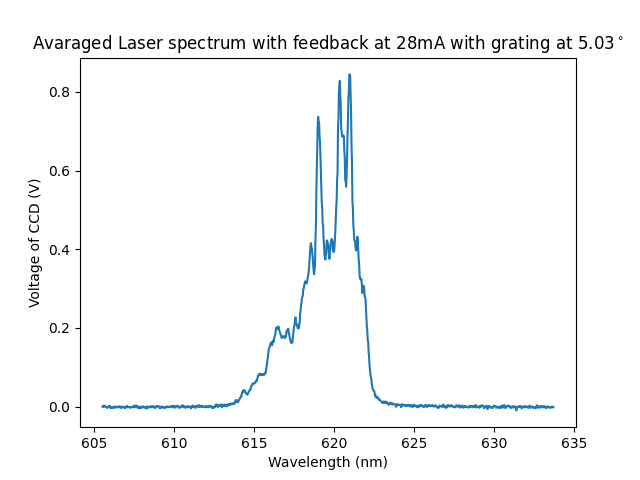
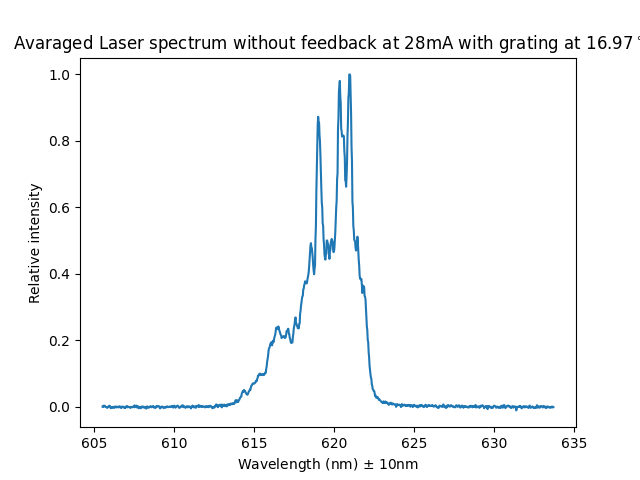
Laser measurement without feedback

diff --git a/Laser measurments/Measurment reader.py b/Laser measurments/Measurment reader.py
@@ -6,10 +6,11 @@ import scipy.signal
 from math import sqrt
 
 # df = pandas.read_csv(".\laser measurments\\no feedback no lasing 25mA 19-06.csv", delimiter=",", header=11)
-df = pandas.read_csv("fb 28mA zoom photo 65 19-06.csv", delimiter=",", header=11)
+df = pandas.read_csv("no fb 28mA 19-06 zoom.csv", delimiter=",", header=11)
+# df =df.drop(range(550000, 1000000))
 # debug = df[df.columns[5]]
 # print("hello")
-print(df.drop([0, 1, 2, 3, 4, 5, 6, 7, 8, 9, 10]))
+# print(df.drop([0, 1, 2, 3, 4, 5, 6, 7, 8, 9, 10]))
 df.plot(df.columns[0], df.columns[1])
 
 #%%
@@ -33,16 +34,20 @@ plt.plot(wavelength, df[df.columns[1]])
 plt.xlabel("Wavelength (nm)")
 plt.ylabel("Voltage of CCD (V)")
 plt.title("Laser spectrum with feedback at 28mA with grating at $5.03^\circ$")
-plt.savefig(".\Results laser spectrum\\feedback 28mA photo 65.png")
+# plt.savefig(".\Results laser spectrum\\feedback 28mA photo 65.png")
 
 
 #%%
 avaraged = []
 avarage_length = 1000
 for i in range(0, len(wavelength), avarage_length):
-    avaraged.append(np.mean(df[df.columns[1]][i:i+avarage_length]))
+    avaraged.append(np.mean(-df[df.columns[1]][i:i+avarage_length]) + df[df.columns[1]][0])
+peak = scipy.signal.find_peaks(avaraged, height=0.8)[0]
+print(peak)
+print(avaraged[peak[1]])
+avaraged = [avaraged[i]/avaraged[peak[1]] for i in range(len(avaraged))]
 plt.plot(wavelength[::avarage_length], avaraged)
-plt.xlabel("Wavelength (nm)")
-plt.ylabel("Voltage of CCD (V)")
-plt.title("Avaraged Laser spectrum with feedback at 28mA with grating at $5.03^\circ$")
-plt.savefig(".\Results laser spectrum\\Avaraged feedback 28mA photo 65.png")
+plt.xlabel("Wavelength (nm) $\pm$ 10nm")
+plt.ylabel("Relative intensity")
+plt.title("Avaraged Laser spectrum without feedback at 28mA with grating at $16.97^\circ$")
+plt.savefig(".\Results laser spectrum\\Averaged no feedback 28mA photo 65 zoomed in.png")
